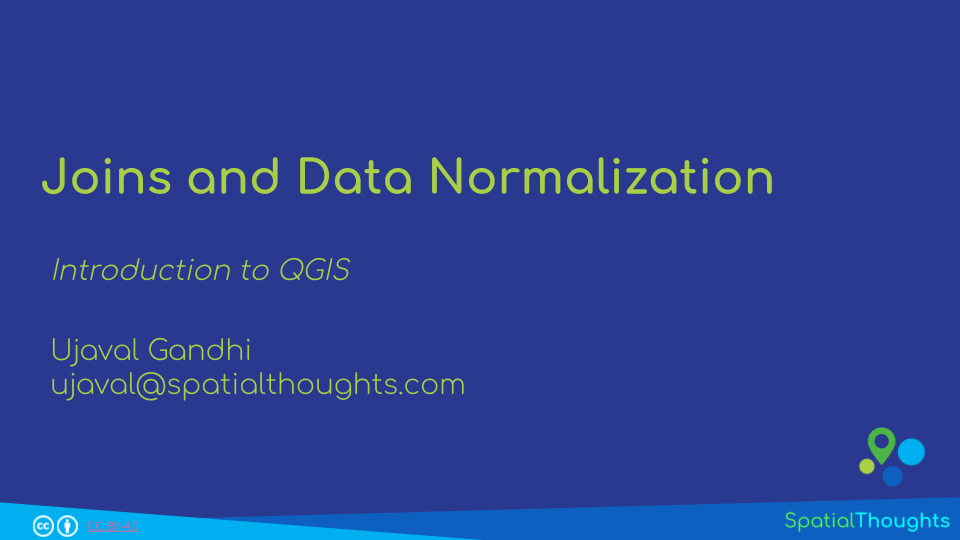
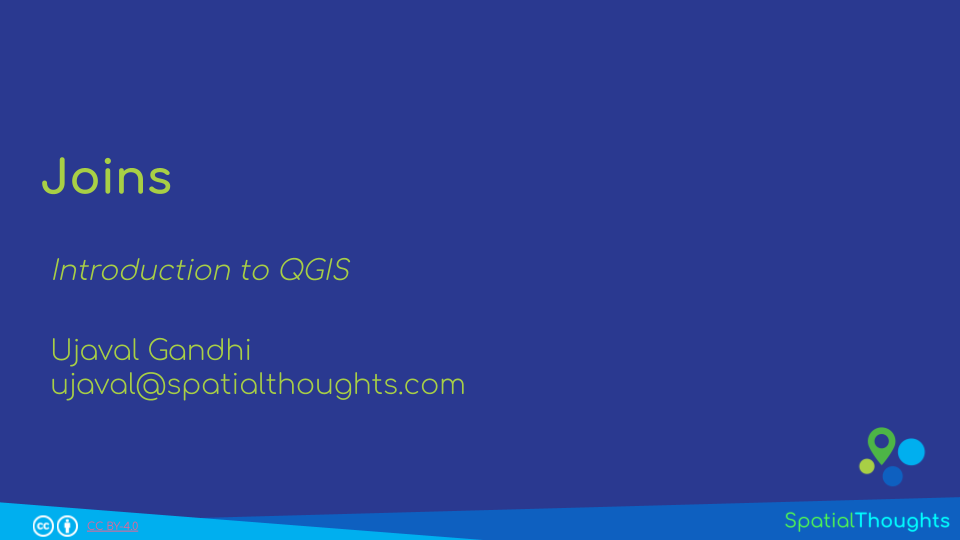
update

Changed region(s): [[0.1875, 0.2667, 0.8125, 0.3556]]

diff --git a/docs/introduction-to-qgis.html b/docs/introduction-to-qgis.html
@@ -300,16 +300,17 @@ Importing Vector Data</a>
 <li><a href="#challenge-3" id="toc-challenge-3">1.4.1 Challenge</a></li>
 </ul></li>
 </ul></li>
-<li><a href="#concept-joins-and-data-normalization"
-id="toc-concept-joins-and-data-normalization">Concept: Joins and Data
-Normalization</a></li>
 <li><a href="#visualizing-spatial-data"
 id="toc-visualizing-spatial-data">2. Visualizing Spatial Data</a>
 <ul>
+<li><a href="#concept-joins" id="toc-concept-joins">Concept:
+Joins</a></li>
 <li><a href="#table-join" id="toc-table-join">2.1 Table Join</a>
 <ul>
 <li><a href="#challenge-4" id="toc-challenge-4">2.1.1 Challenge</a></li>
 </ul></li>
+<li><a href="#concept-data-normalization"
+id="toc-concept-data-normalization">Concept: Data Normalization</a></li>
 <li><a href="#creating-a-choropleth-map"
 id="toc-creating-a-choropleth-map">2.2 Creating a Choropleth Map</a>
 <ul>
@@ -1015,8 +1016,15 @@ Print Layout Exported as a PDF
 </div>
 </div>
 </div>
-<div id="concept-joins-and-data-normalization" class="section level1">
-<h1>Concept: Joins and Data Normalization</h1>
+<div id="visualizing-spatial-data" class="section level1">
+<h1>2. Visualizing Spatial Data</h1>
+<p>In this section, we will learn basic data processing and
+visualization techniques. We will use geographic boundaries and
+population count data for the City of New York and create a population
+density map. This requires doing a table join and using a graduated
+symbology to create a choropleth map.</p>
+<div id="concept-joins" class="section level2">
+<h2>Concept: Joins</h2>
 <p><a
 href="https://docs.google.com/presentation/d/1YJfWrjSDeriYJMsA6bmVi4zZmzLmGOo5dm13Lr5JaiI/edit?usp=sharing"
 target="_blank"><img
@@ -1026,13 +1034,6 @@ alt="View Presentation" /></a></p>
 href="https://docs.google.com/presentation/d/1YJfWrjSDeriYJMsA6bmVi4zZmzLmGOo5dm13Lr5JaiI/edit?usp=sharing"
 target="_blank">View the Presentation ↗</a></p>
 </div>
-<div id="visualizing-spatial-data" class="section level1">
-<h1>2. Visualizing Spatial Data</h1>
-<p>In this section, we will learn basic data processing and
-visualization techniques. We will use geographic boundaries and
-population count data for the City of New York and create a population
-density map. This requires doing a table join and using a graduated
-symbology to create a choropleth map.</p>
 <div id="table-join" class="section level2">
 <h2>2.1 Table Join</h2>
 <ol style="list-style-type: decimal">
@@ -1256,6 +1257,17 @@ processing toolbox.</li>
 decimal places.</li>
 </ul>
 </div>
+</div>
+<div id="concept-data-normalization" class="section level2">
+<h2>Concept: Data Normalization</h2>
+<p><a
+href="https://docs.google.com/presentation/d/1cB6sF_Lo3w2YKhhxSPZdKKaYVT2ID91Jcvf-E0P4MUk/edit?usp=sharing"
+target="_blank"><img
+src="images/introduction_to_qgis/normalization_presentation.png"
+width="400" alt="View Presentation" /></a></p>
+<p><a
+href="https://docs.google.com/presentation/d/1cB6sF_Lo3w2YKhhxSPZdKKaYVT2ID91Jcvf-E0P4MUk/edit?usp=sharing"
+target="_blank">View the Presentation ↗</a></p>
 </div>
 <div id="creating-a-choropleth-map" class="section level2">
 <h2>2.2 Creating a Choropleth Map</h2>
